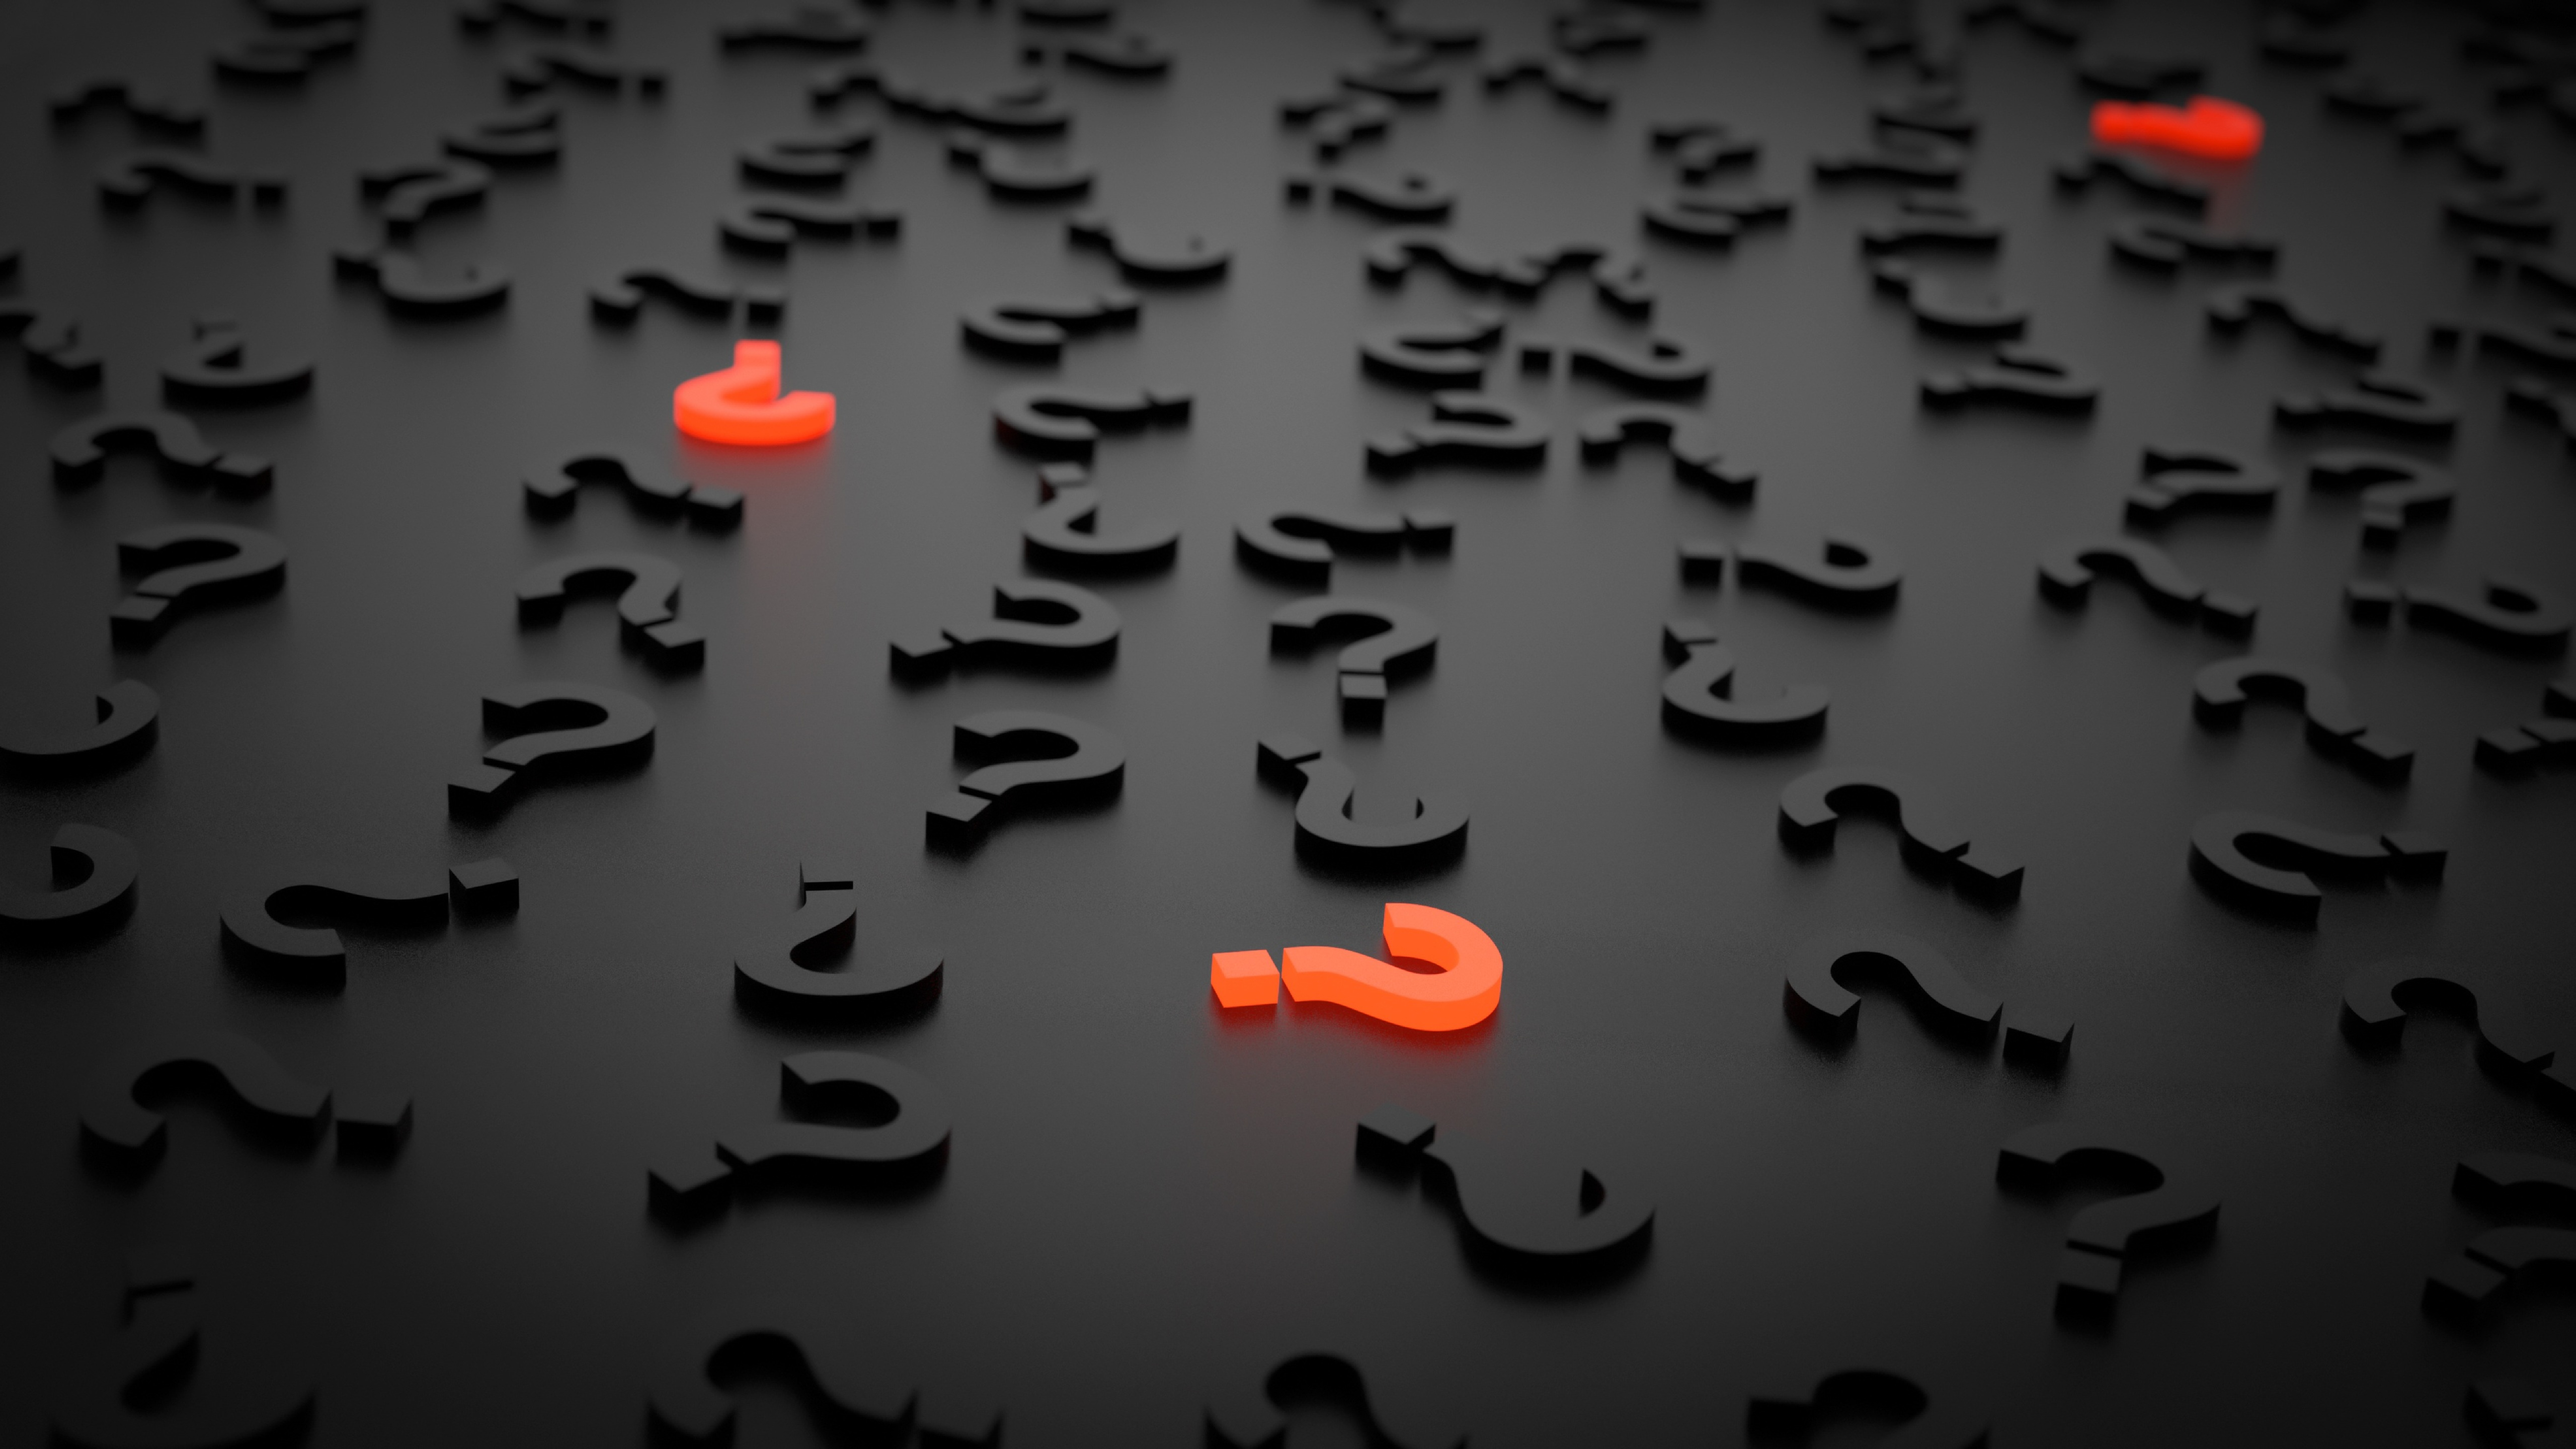
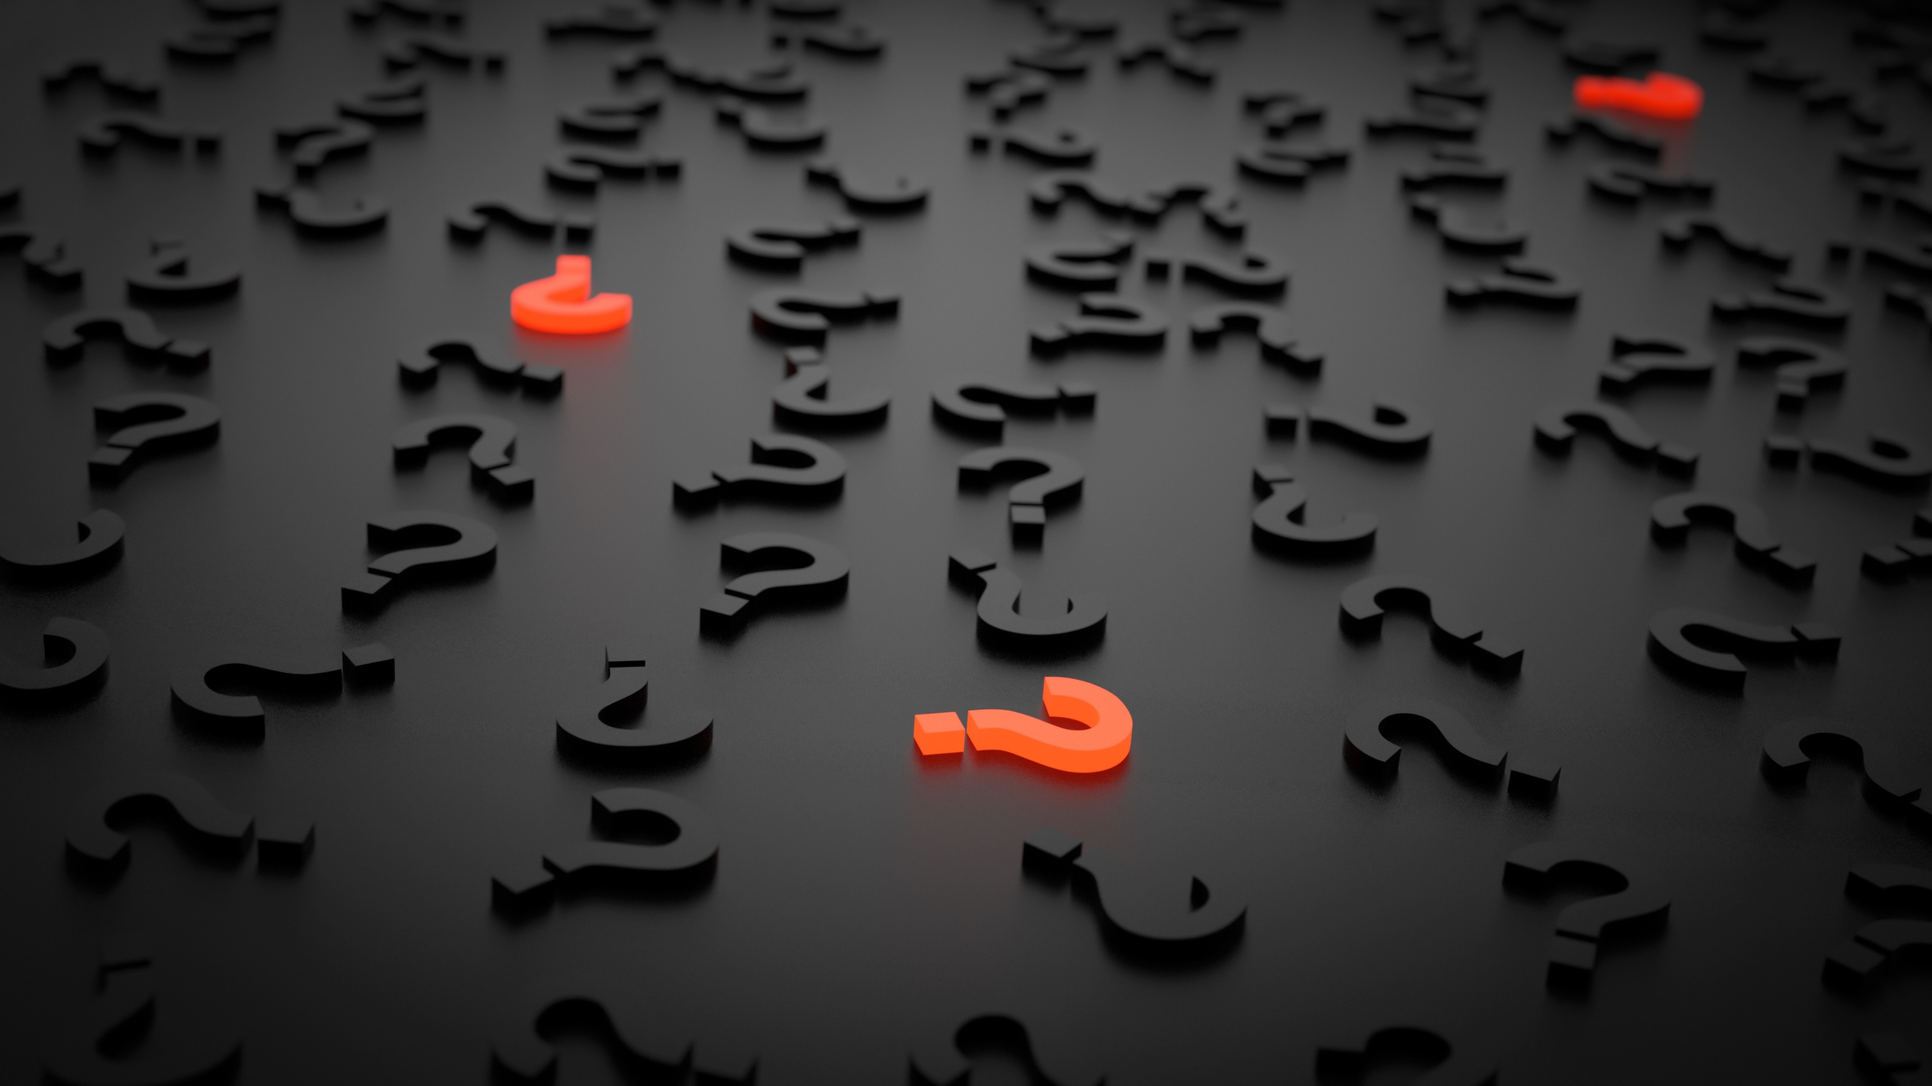
switched BG image, it should work fine with mobile too

diff --git a/assets/css/style.css b/assets/css/style.css
@@ -5,7 +5,7 @@
 body {
     background-image: url(../images/background_img.jpg);
     background-repeat: no-repeat;
-    background-size: 100%;
+    height: 100%;
     font-family: gameFont;
     color: white;
     text-align: center;
